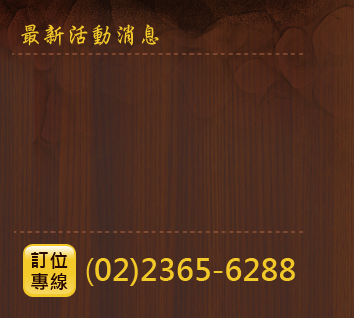
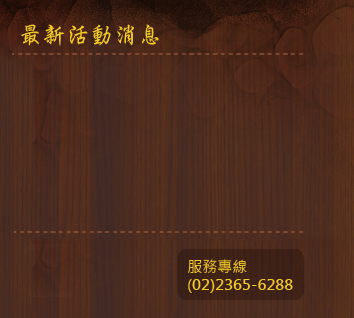
index

Changed region(s): [[0.0621, 0.7642, 0.839, 0.934]]

diff --git a/app/assets/stylesheets/application.css b/app/assets/stylesheets/application.css
@@ -666,3 +666,10 @@ a:active {
     font-size: 14px;
     color: #C63;
 }
+
+.index_bu {
+    height: 54px;
+    width: 151px;
+    position: absolute;
+    top: 785px;
+}
